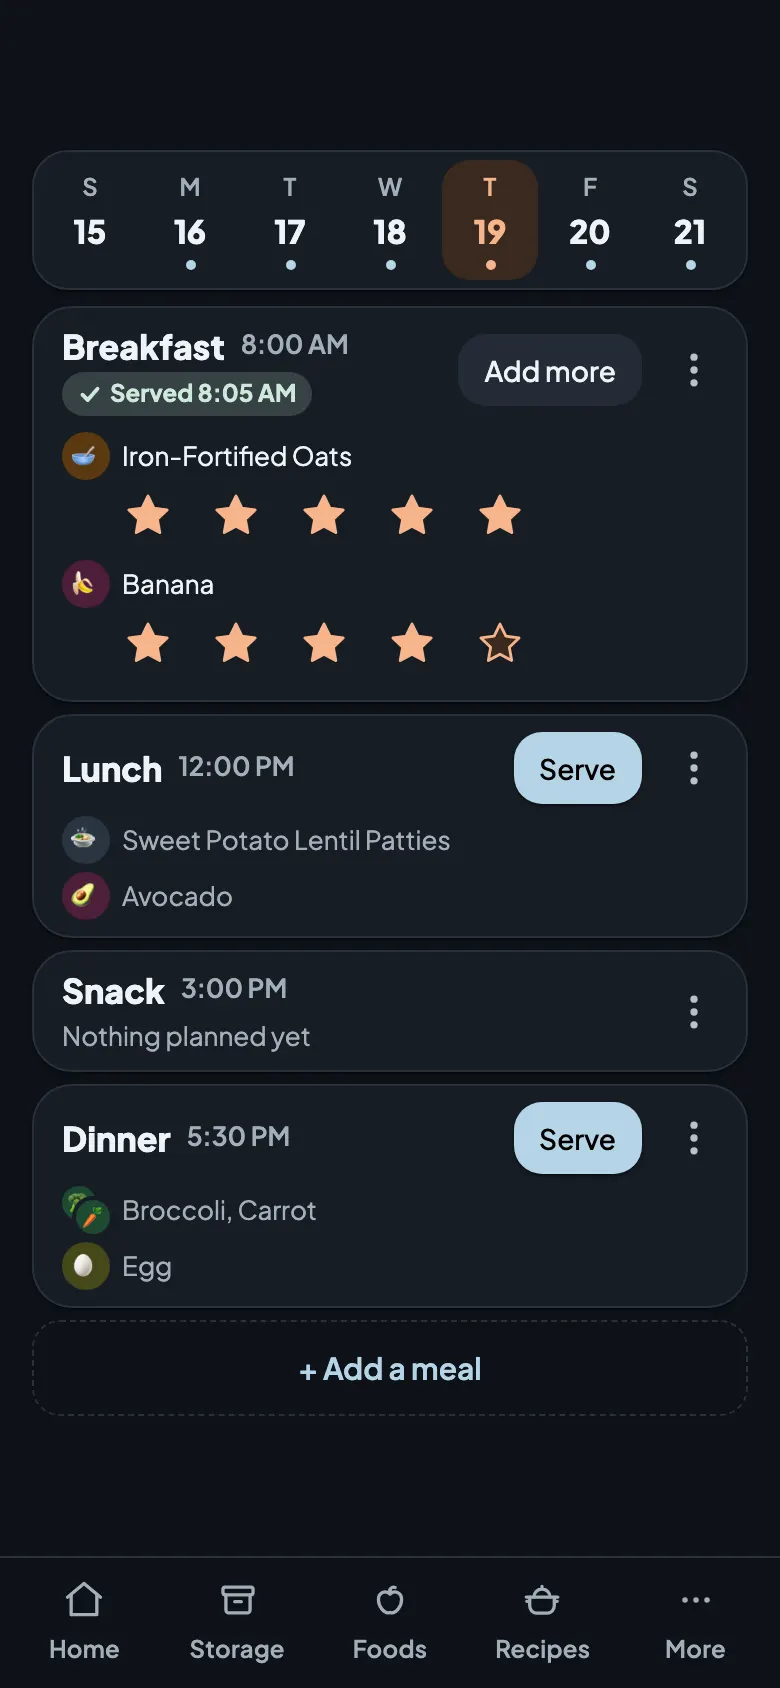
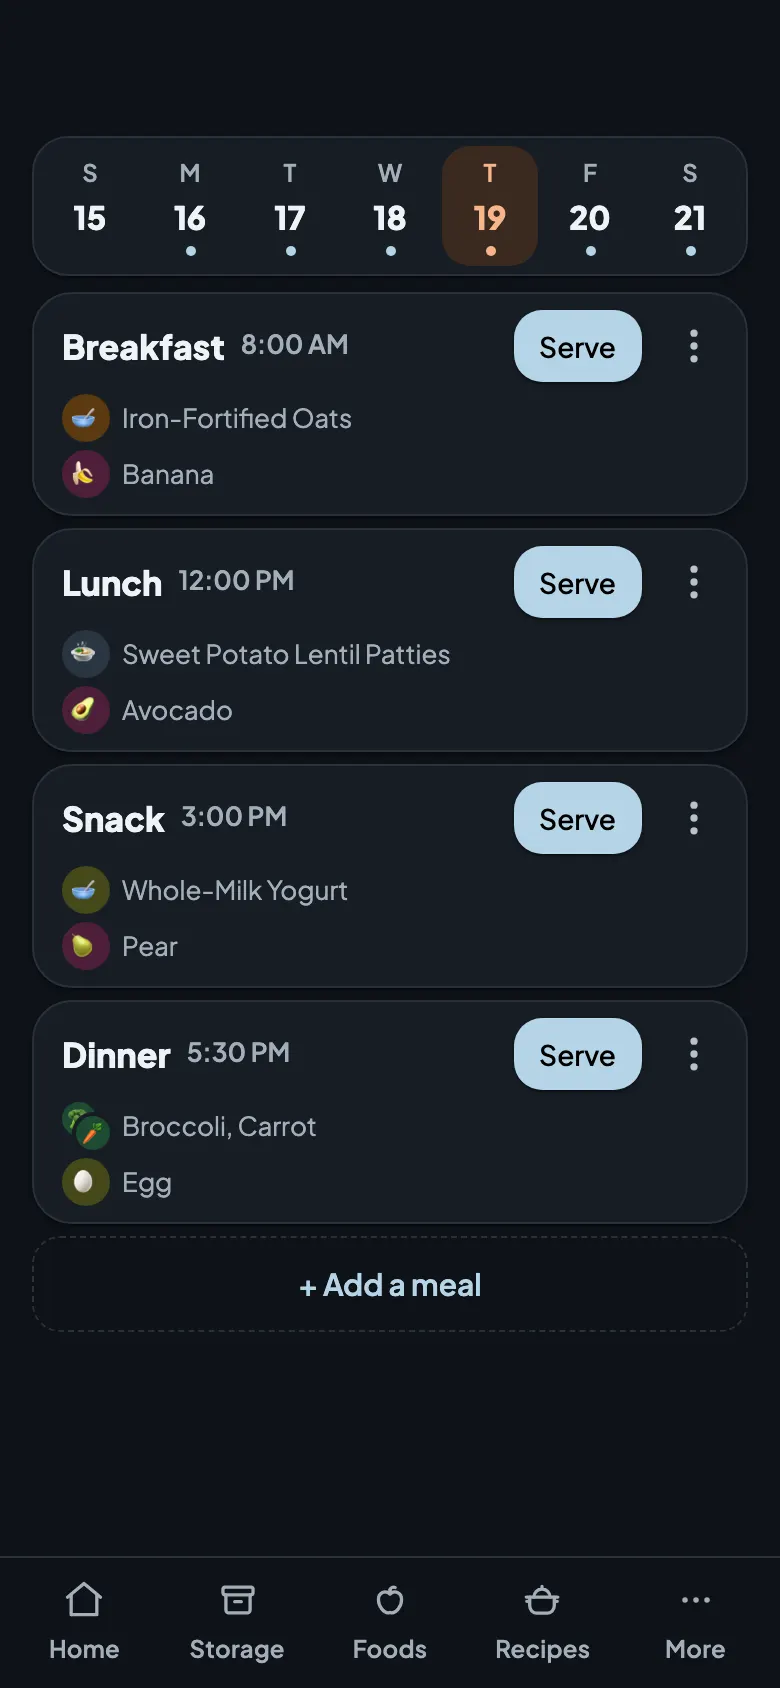
Landing: retake the Meal Plan shot with every meal planned, none served, no stars (ledger 1009)
Owner: food on every meal, and no ratings (it looked like Log meal at a
glance). Today's Breakfast, Lunch, Snack and Dinner are planned with their
foods, each with its Serve button; nothing served, no stars. Same recipe as
1007 (390x844 @2x WebP q78, light + dark, header hidden, made-up "Mila",
clock 2026-11-19 12:20, Breakfast at y 162). Alt updated to match.

diff --git a/client/src/features/landing/slides.ts b/client/src/features/landing/slides.ts
@@ -27,7 +27,7 @@ export const LANDING_SLIDES: readonly LandingSlide[] = [
     title: "Plan ahead, if you like.",
     body: "Fill in the days ahead, then serve today's meals with one tap.",
     shot: "plan",
-    alt: "Meal Plan for today: Breakfast served, with stars on each food, and Lunch with a Serve button.",
+    alt: "Meal Plan for today: Breakfast, Lunch, Snack and Dinner planned, each with its foods and a Serve button.",
   },
   {
     title: "Keep track of what you've prepped.",
